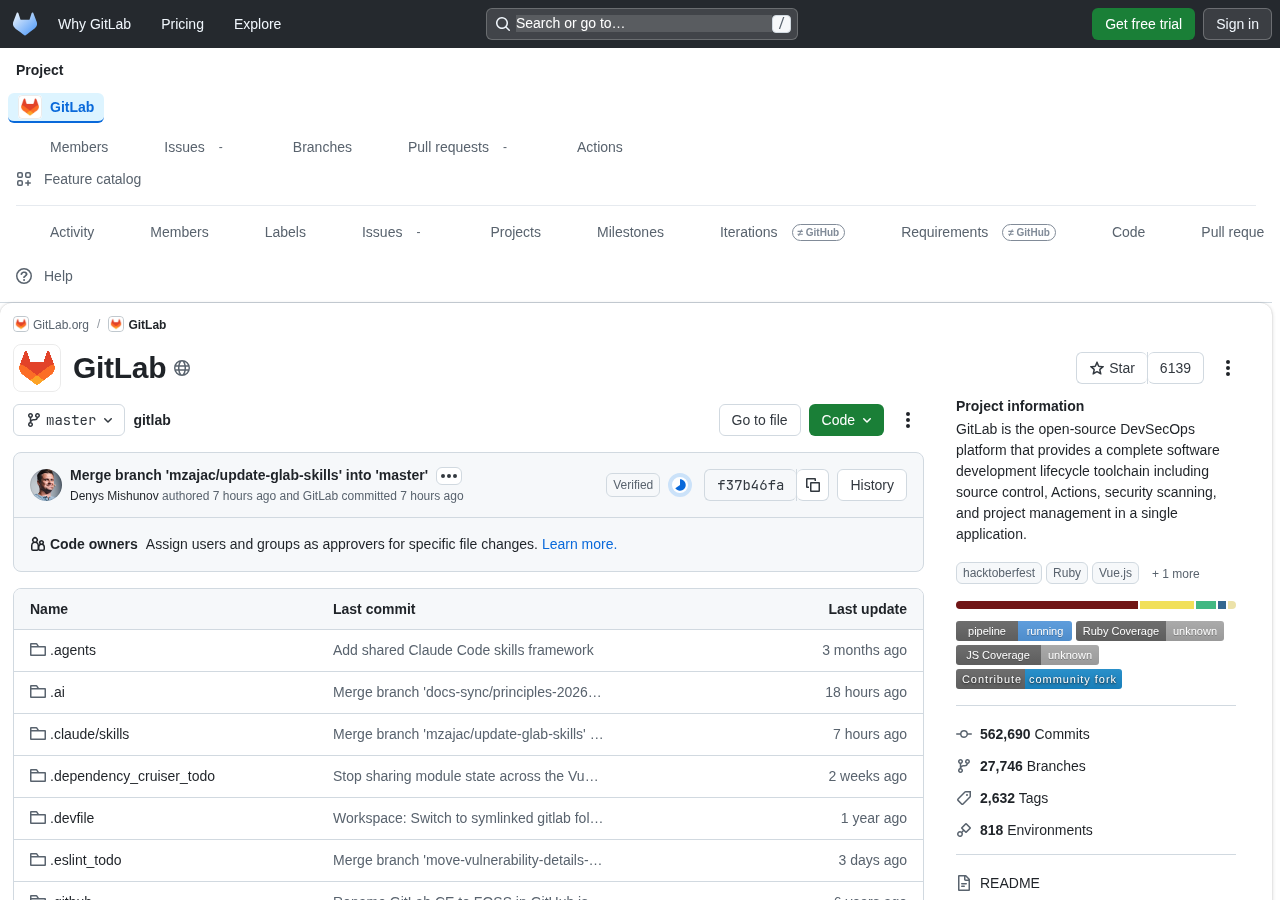
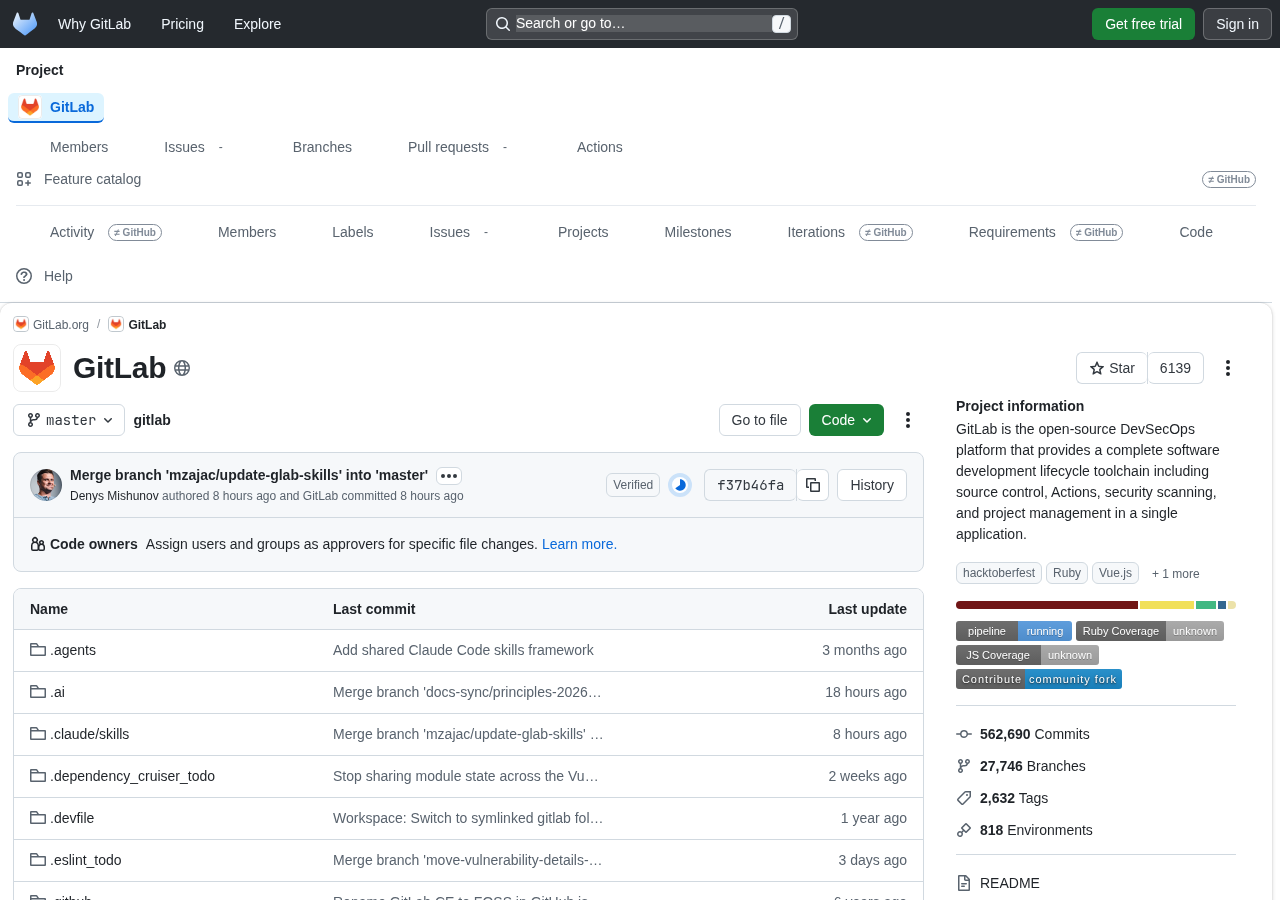
feat(ux): finish GitLab's group taxonomy, and mark two more GitLab-only items
- NAV_GROUPS now covers the rest of GitLab's project groups (Manage, Plan, Code,
  Build, Deploy, Monitor, Analyze), so any repo tab that exists lands under the
  right heading, and the sidebar order follows the same taxonomy.
- "Feature catalog" and "Activity" have no GitHub counterpart, so they are
  marked ≠ GitHub on the GitHub skin (alongside the existing markers).

Regenerates the published preview images. 107 unit tests pass; web-ext lint
clean.

diff --git a/src/lib/ux.js b/src/lib/ux.js
@@ -155,17 +155,27 @@
       {
         container: 'nav[aria-label="Repository"] ul.UnderlineNav-body',
         item: 'li',
-        // GitLab's sidebar order: Plan, then Code, then Build, then the rest.
+        // GitLab's sidebar order: Manage, Plan, Code, Build, Deploy, Monitor,
+        // Analyze, then Settings.
         order: [
+          'Members',
           'Issues',
           'Issue boards',
           'Wiki',
+          'Milestones',
+          'Labels',
           'Merge requests',
           'Repository',
+          'Branches',
+          'Commits',
+          'Tags',
           'CI/CD',
           'Releases',
-          'Security',
+          'Packages',
+          'Environments',
+          'Incidents',
           'Analytics',
+          'Security',
           'Settings',
         ],
       },
@@ -195,15 +205,24 @@
   // listed here stands alone, with no heading.
   const NAV_GROUPS = {
     gitlab: {
+      Members: 'Manage',
       Issues: 'Plan',
       'Issue boards': 'Plan',
       Wiki: 'Plan',
+      Milestones: 'Plan',
+      Labels: 'Plan',
       'Merge requests': 'Code',
       Repository: 'Code',
+      Branches: 'Code',
+      Commits: 'Code',
+      Tags: 'Code',
       'CI/CD': 'Build',
       Releases: 'Deploy',
-      Security: 'Secure',
+      Packages: 'Deploy',
+      Environments: 'Deploy',
+      Incidents: 'Monitor',
       Analytics: 'Analyze',
+      Security: 'Secure',
     },
   };
 
@@ -245,6 +264,8 @@
       Marketplace: 'GitLab',
     },
     github: {
+      'Feature catalog': 'GitHub',
+      Activity: 'GitHub',
       Epics: 'GitHub',
       Iterations: 'GitHub',
       Requirements: 'GitHub',
